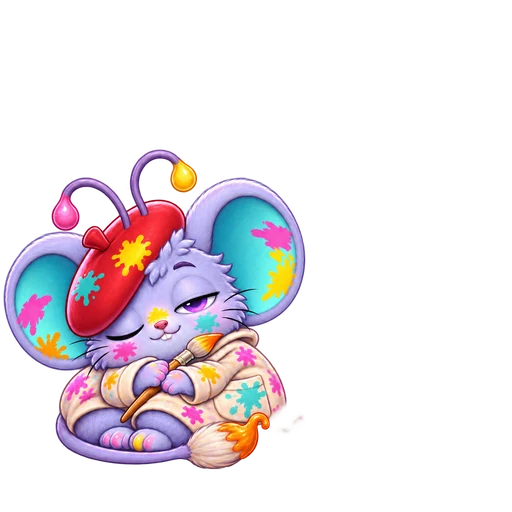
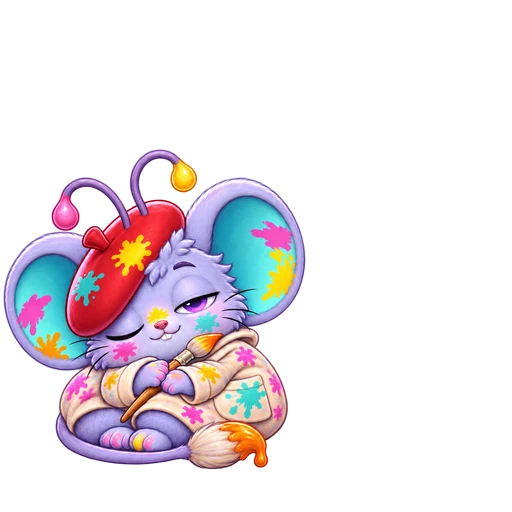
Pip: fix the tail and smock edge missing in the petted-while-sleeping frame
Claude-Session: https://claude.ai/code/session_01PGxfpcX8yQ2dVm6AUd14bJ

Changed region(s): [[0.375, 0.75, 0.5625, 0.9375], [0.4062, 0.9062, 0.4375, 0.9375], [0.3438, 0.8438, 0.375, 0.875]]

diff --git a/game.js b/game.js
@@ -18610,7 +18610,7 @@ __eocLoaded = 44;
    - Click him: while asleep he enjoys it; while painting he gets a bit annoyed.
    ===================================================================== */
 var PIP_CYCLE = 15 * 60e3, PIP_PAINT = 60e3, PIP_TIER = "hard", PIP_COST = 10, PIP_LV = 3, PIP_CATCHUP = 96;
-var PIP_V = "1";   // bump when a Pip picture changes (browser cache)
+var PIP_V = "2";   // bump when a Pip picture changes (browser cache)
 var PIP_FRAMES = ["paint-1", "paint-2", "paint-3", "paint-4", "tada", "sleep-1", "sleep-2", "sleeppet-1", "sleeppet-2", "sleeppet-3", "annoyed-1", "annoyed-2", "annoyed-3"];
 var pipSrc = (f) => `assets/pip/pip-${f}.webp?v=${PIP_V}`;
 var pipOwned = () => !!(state.pip && state.pip.owned);

diff --git a/js/36-pip.js b/js/36-pip.js
@@ -9,7 +9,7 @@
    - Click him: while asleep he enjoys it; while painting he gets a bit annoyed.
    ===================================================================== */
 const PIP_CYCLE = 15 * 60e3, PIP_PAINT = 60e3, PIP_TIER = "hard", PIP_COST = 10, PIP_LV = 3, PIP_CATCHUP = 96;
-const PIP_V = "1";   // bump when a Pip picture changes (browser cache)
+const PIP_V = "2";   // bump when a Pip picture changes (browser cache)
 const PIP_FRAMES = ["paint-1", "paint-2", "paint-3", "paint-4", "tada", "sleep-1", "sleep-2", "sleeppet-1", "sleeppet-2", "sleeppet-3", "annoyed-1", "annoyed-2", "annoyed-3"];
 const pipSrc = (f) => `assets/pip/pip-${f}.webp?v=${PIP_V}`;
 const pipOwned = () => !!(state.pip && state.pip.owned);

diff --git a/index.html b/index.html
@@ -614,6 +614,6 @@
   <div id="tipCard" hidden role="status"></div>
   <div id="tutBubble" hidden role="dialog" aria-label="Guided start"></div>
   <!-- Game code, split by section. Files share one global scope and must load in this order. -->
-  <script src="game.js?v=72d5da4305"></script>
+  <script src="game.js?v=cb0c40f00a"></script>
 </body>
 </html>
